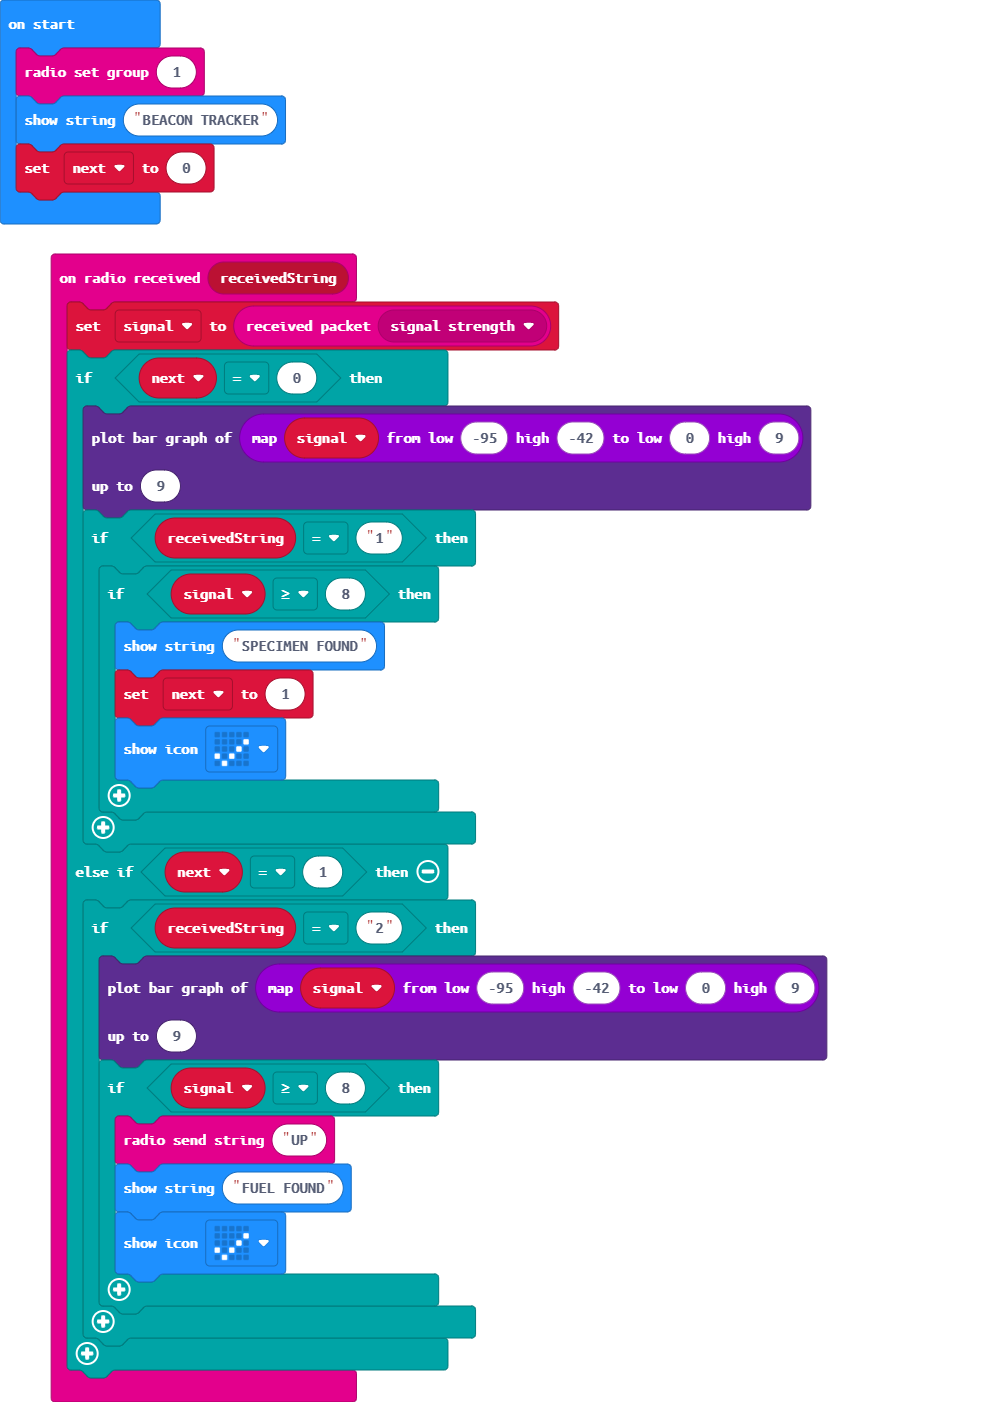
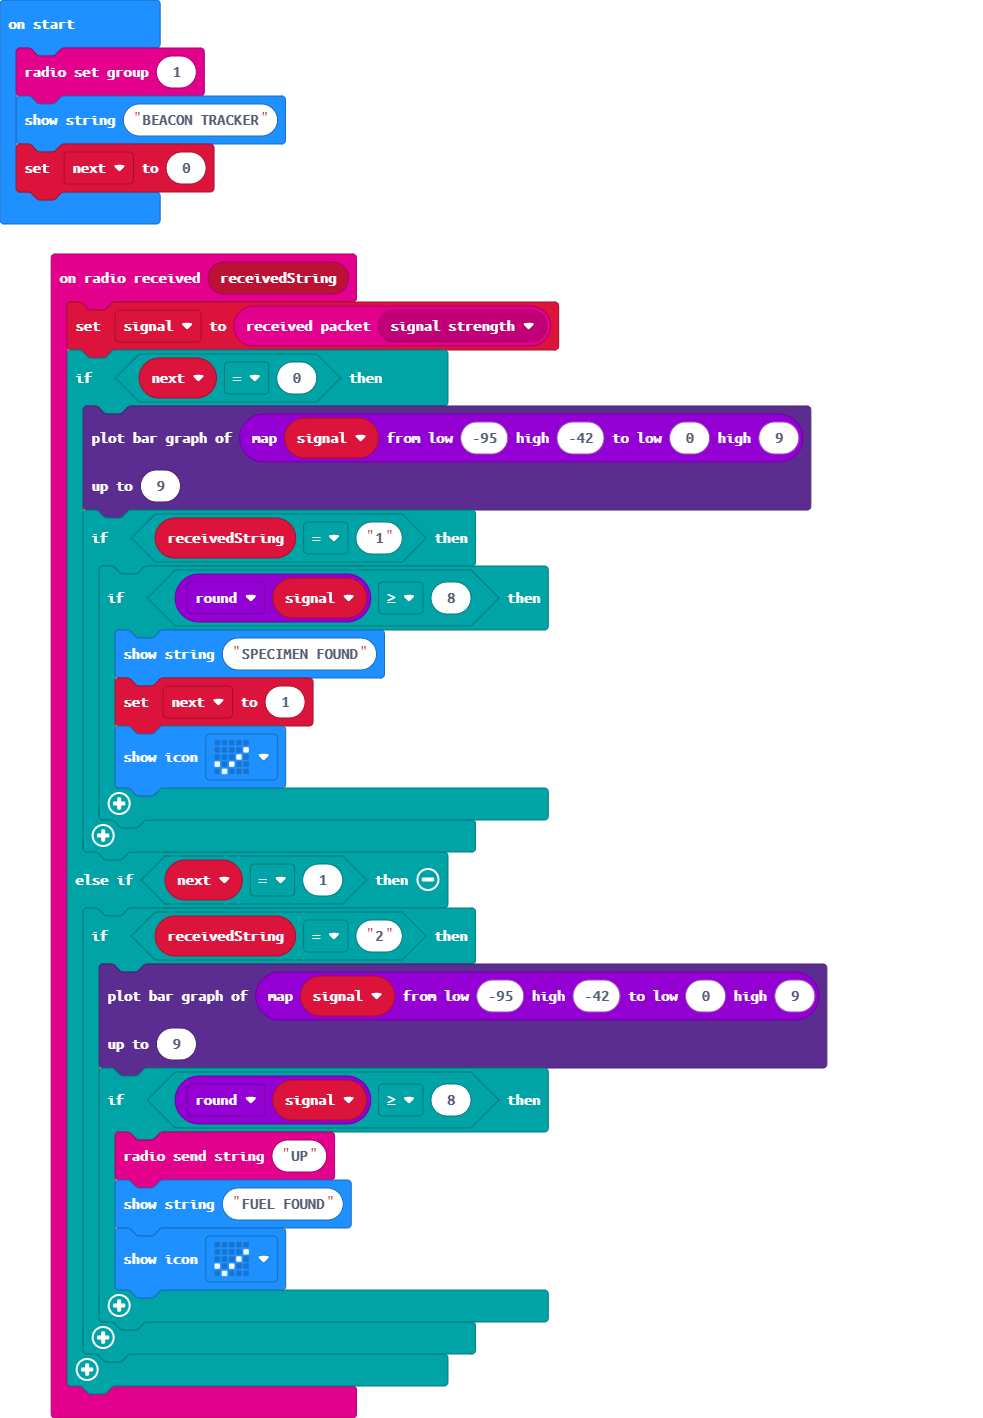
add round to value signal

diff --git a/main.ts b/main.ts
@@ -6,7 +6,7 @@ radio.onReceivedString(function (receivedString) {
         9
         )
         if (receivedString == "1") {
-            if (signal >= 8) {
+            if (Math.round(signal) >= 8) {
                 basic.showString("SPECIMEN FOUND")
                 next = 1
                 basic.showIcon(IconNames.Yes)
@@ -18,7 +18,7 @@ radio.onReceivedString(function (receivedString) {
             Math.map(signal, -95, -42, 0, 9),
             9
             )
-            if (signal >= 8) {
+            if (Math.round(signal) >= 8) {
                 radio.sendString("UP")
                 basic.showString("FUEL FOUND")
                 basic.showIcon(IconNames.Yes)
